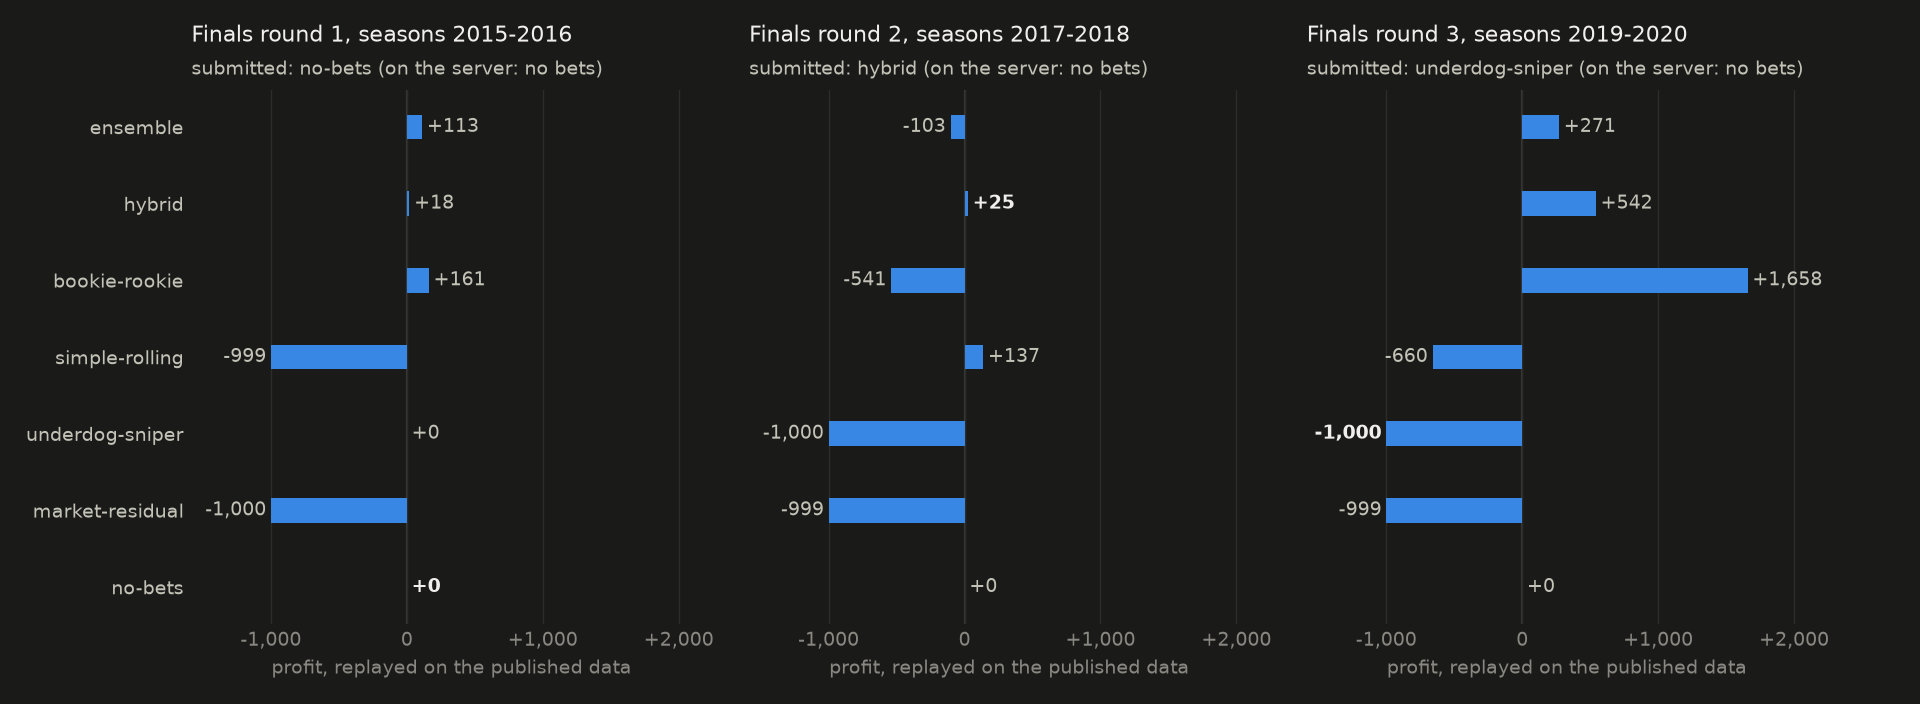
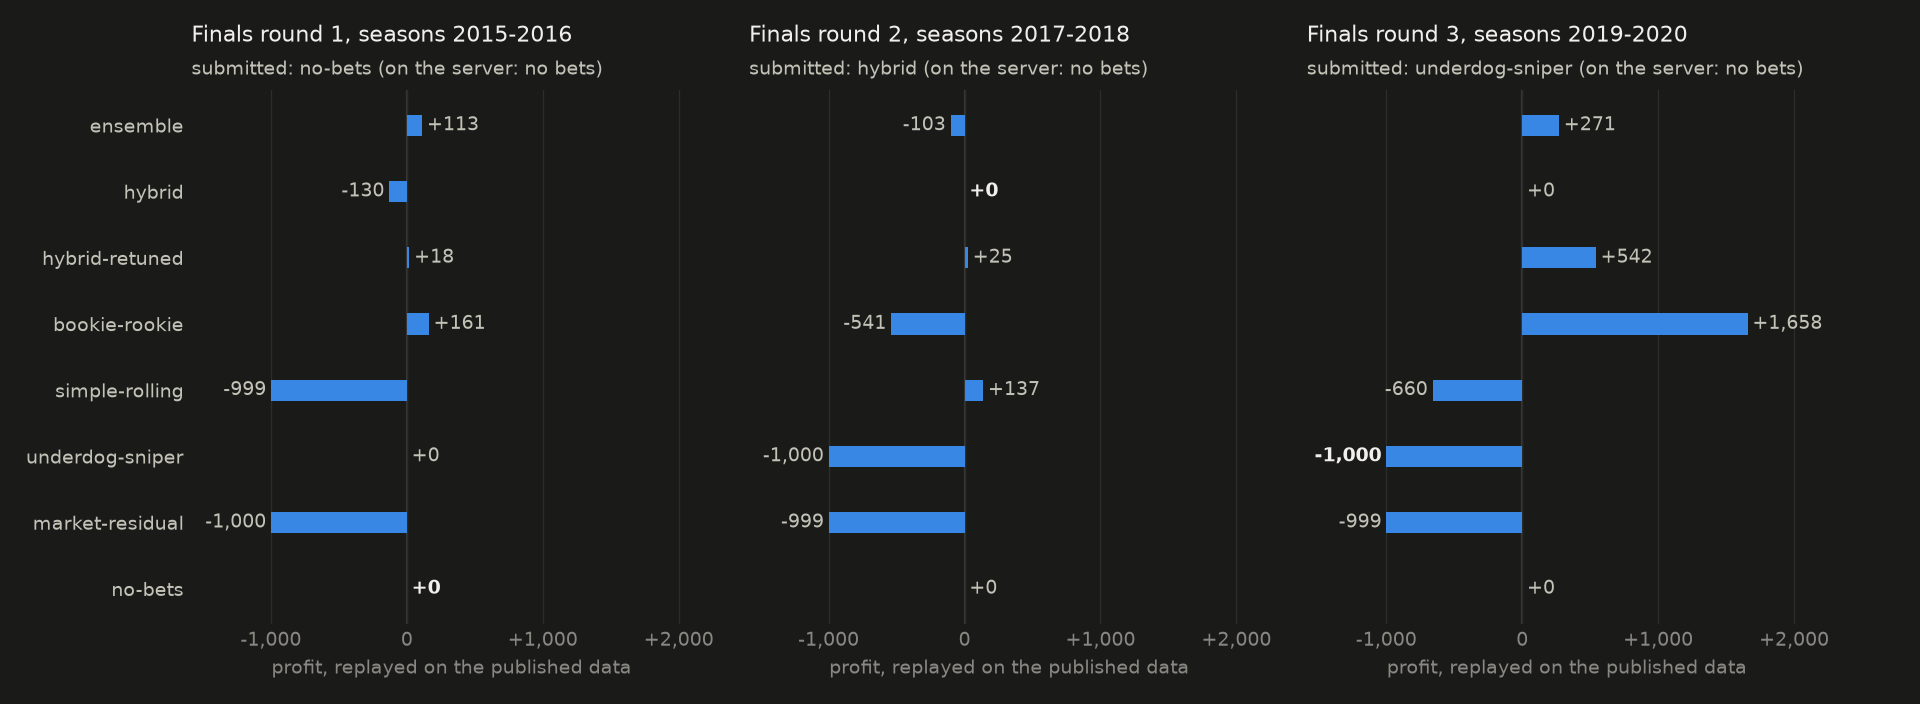
Results: both hybrids replayed, the finals pooled, a test against luck
tools/summarise.py pools each model's finals bets and scores the
profit against fair odds: no model's profit stands out from luck
(the best z is 1.56), while the market-residual network's loss does
(z = -3.72).

diff --git a/tools/summarise.py b/tools/summarise.py
@@ -1,0 +1,66 @@
+"""Pool each model's finals bets (results/bets.csv) and test them against luck.
+
+    uv run python tools/summarise.py
+
+The bets file keeps only the stakes; their odds and results are read from the organisers'
+data (scripts/fetch_data.py).
+
+If the bookmaker's odds were fair, a stake s at decimal odds o would win s(o - 1) with
+probability 1/o and lose s otherwise: mean 0, variance s^2 (o - 1). The z-score is the total
+profit over the square root of the summed variances. The bookmaker's margin makes the true
+null mean negative, so a positive z overstates the evidence for skill.
+
+Writes results/finals_summary.csv.
+"""
+
+from pathlib import Path
+
+import numpy as np
+import pandas as pd
+
+from qqh.environment import ODDS_COLS, RESULT_COLS
+from qqh.models import MODELS
+from qqh.rounds import ROUNDS
+
+RESULTS = Path(__file__).resolve().parent.parent / "results"
+FINALS = ["finals-1", "finals-2", "finals-3"]
+SIDES = [("BetH", "OddsH", "H"), ("BetA", "OddsA", "A"), ("BetD", "OddsD", "D")]
+
+
+def pool(bets: pd.DataFrame) -> dict:
+    stakes, profits, variances = [], [], []
+    for stake_col, odds_col, result_col in SIDES:
+        placed = bets[bets[stake_col] > 0]
+        stake = placed[stake_col].to_numpy()
+        odds = placed[odds_col].to_numpy()
+        won = placed[result_col].astype(bool).to_numpy()
+        stakes.append(stake)
+        profits.append(np.where(won, stake * (odds - 1), -stake))
+        variances.append(stake**2 * (odds - 1))
+    stake, profit, variance = (np.concatenate(x) for x in (stakes, profits, variances))
+    return {
+        "bets": len(stake),
+        "staked": round(stake.sum(), 2),
+        "profit": round(profit.sum(), 2),
+        "roi_on_stake": round(profit.sum() / stake.sum(), 3) if len(stake) else None,
+        "z": round(profit.sum() / np.sqrt(variance.sum()), 2) if len(stake) else None,
+    }
+
+
+def main() -> None:
+    bets = pd.read_csv(RESULTS / "bets.csv", float_precision="round_trip")
+    games = {name: ROUNDS[name].games()[[*ODDS_COLS, *RESULT_COLS]] for name in FINALS}
+    rows = []
+    for name in MODELS:
+        mine = bets[(bets["model"] == name) & bets["round"].isin(FINALS)]
+        frames = [part.join(games[r], on="game") for r, part in mine.groupby("round")]
+        columns = [c for side in SIDES for c in side]
+        placed = pd.concat(frames) if frames else pd.DataFrame(columns=columns)
+        rows.append({"model": name, **pool(placed)})
+    table = pd.DataFrame(rows)
+    table.to_csv(RESULTS / "finals_summary.csv", index=False)
+    print(table.to_string(index=False))
+
+
+if __name__ == "__main__":
+    main()

diff --git a/tools/replay.py b/tools/replay.py
@@ -30,6 +30,7 @@ RESULTS = Path(__file__).resolve().parent.parent / "results"
 # Settings changed from the models' presets so that they bet in every round.
 WHAT_IF = {
     "hybrid": {"start_season": None},
+    "hybrid-retuned": {"start_season": None},
     "simple-rolling": {"end_season": None},
 }
 
